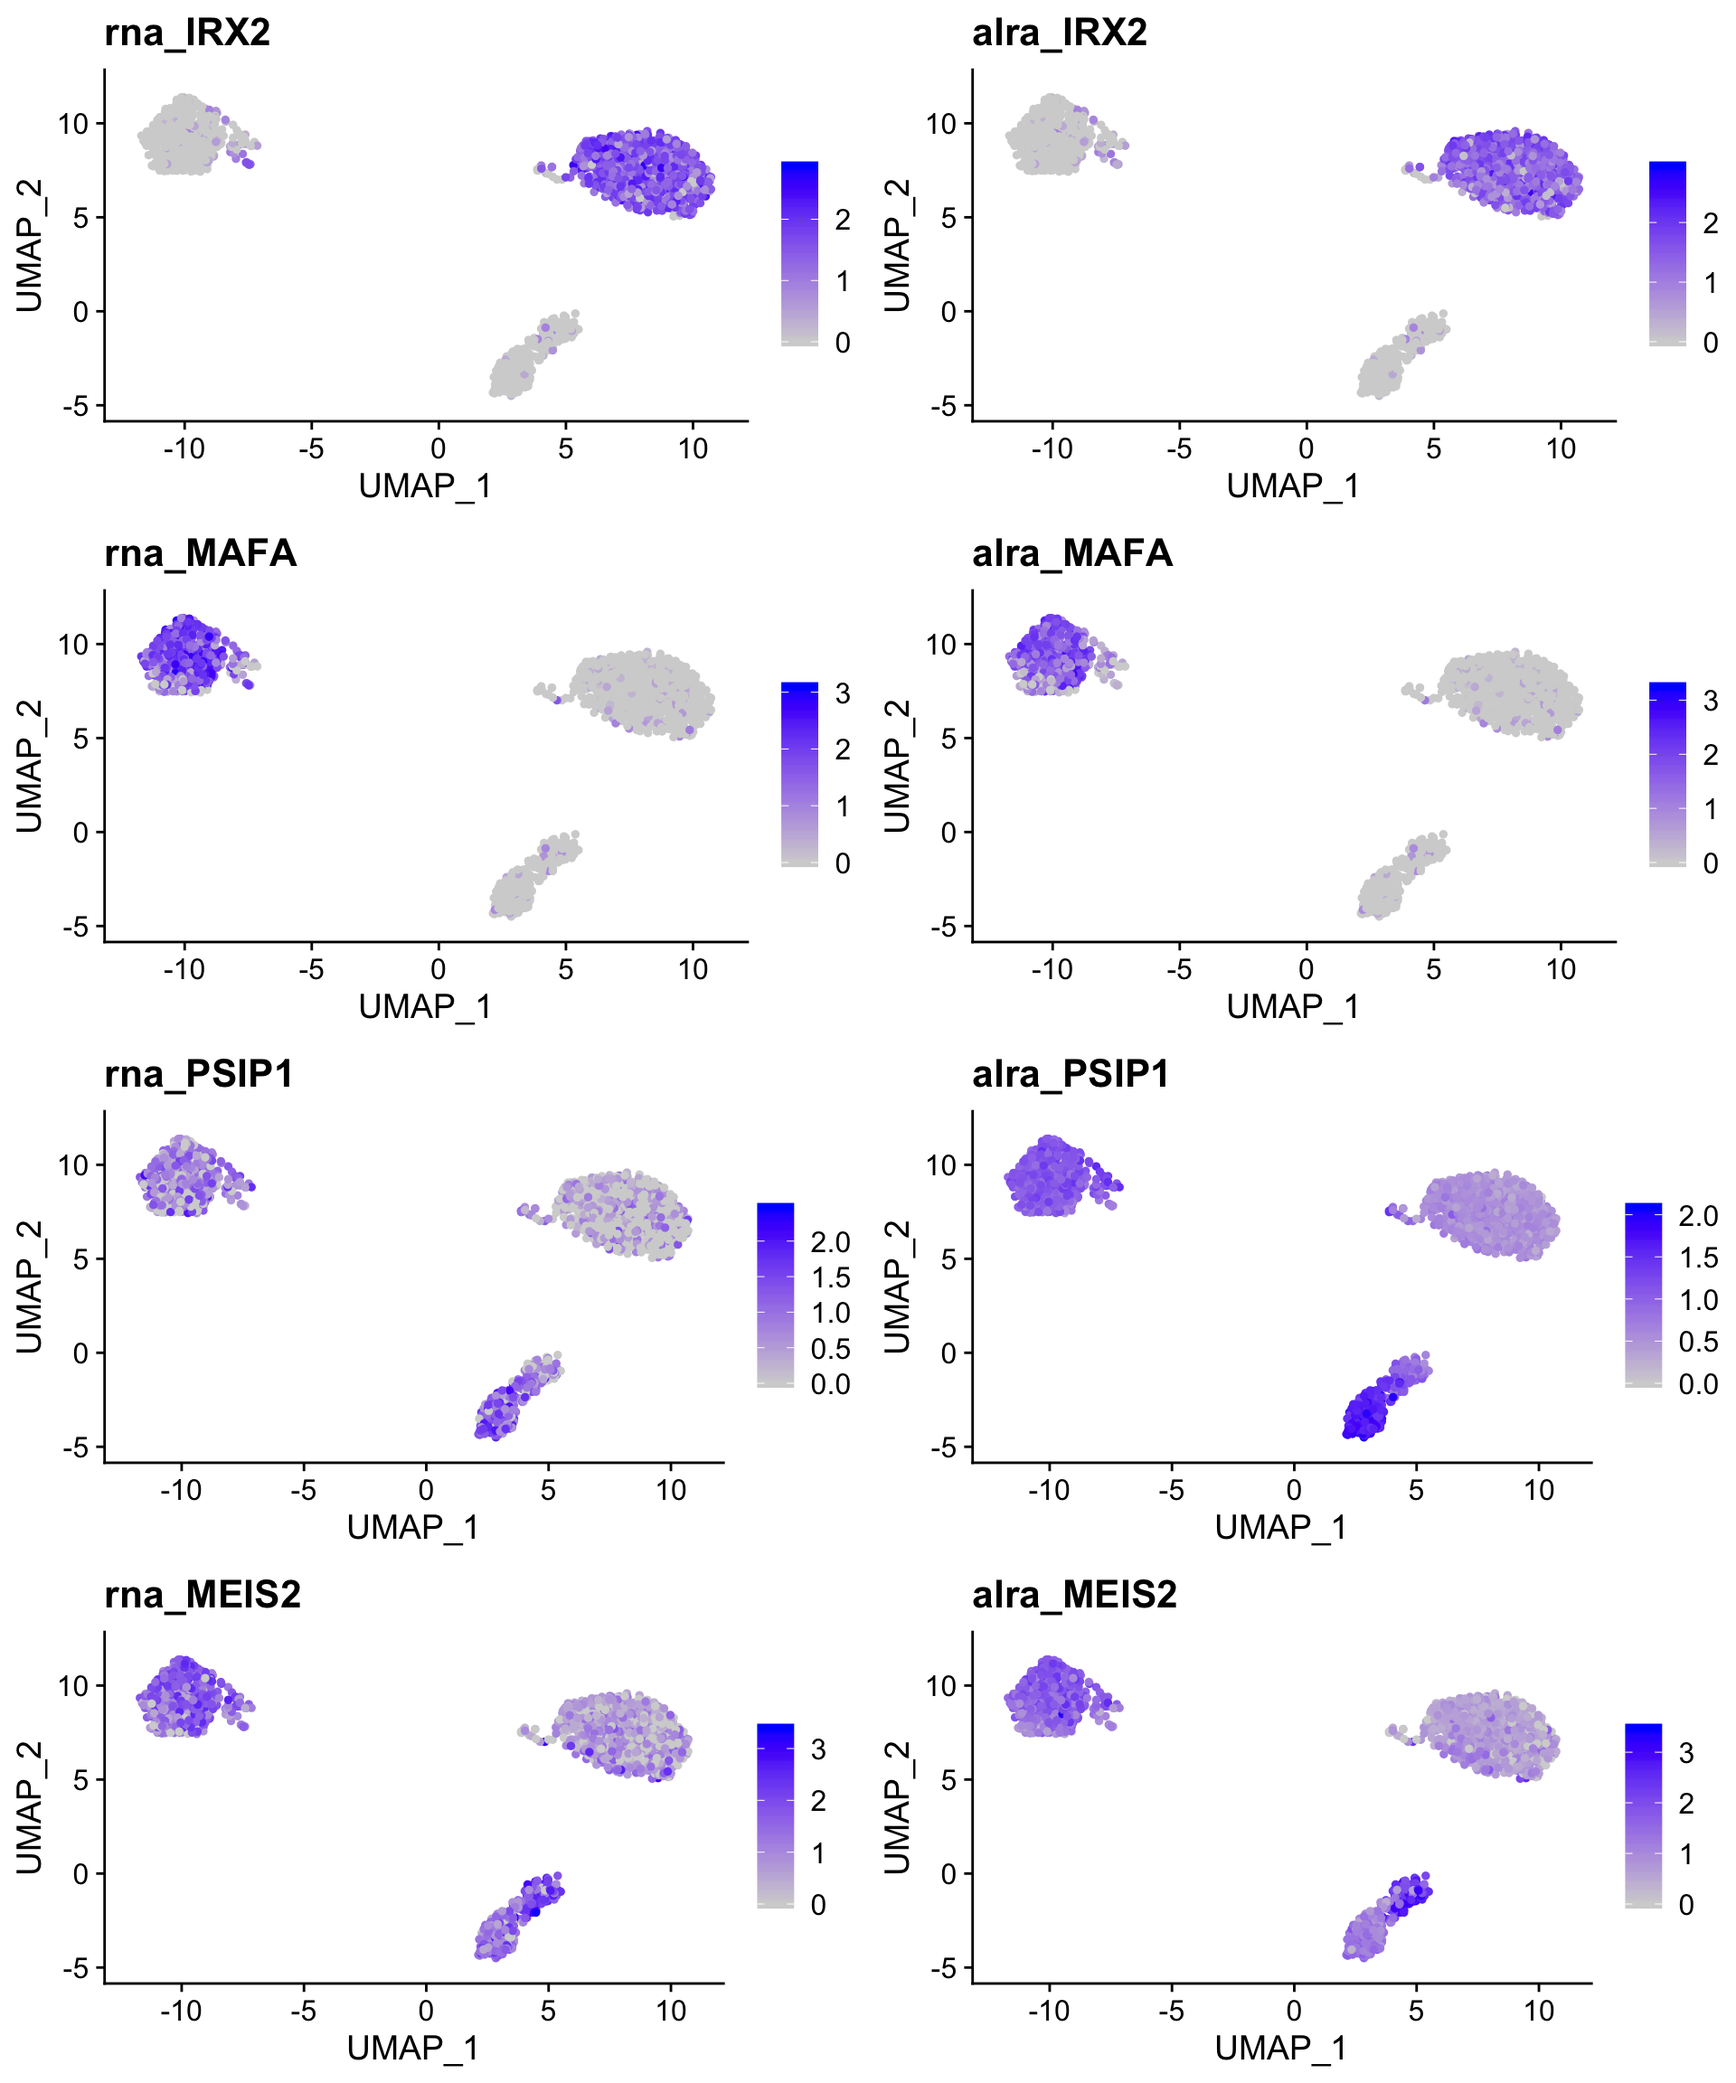
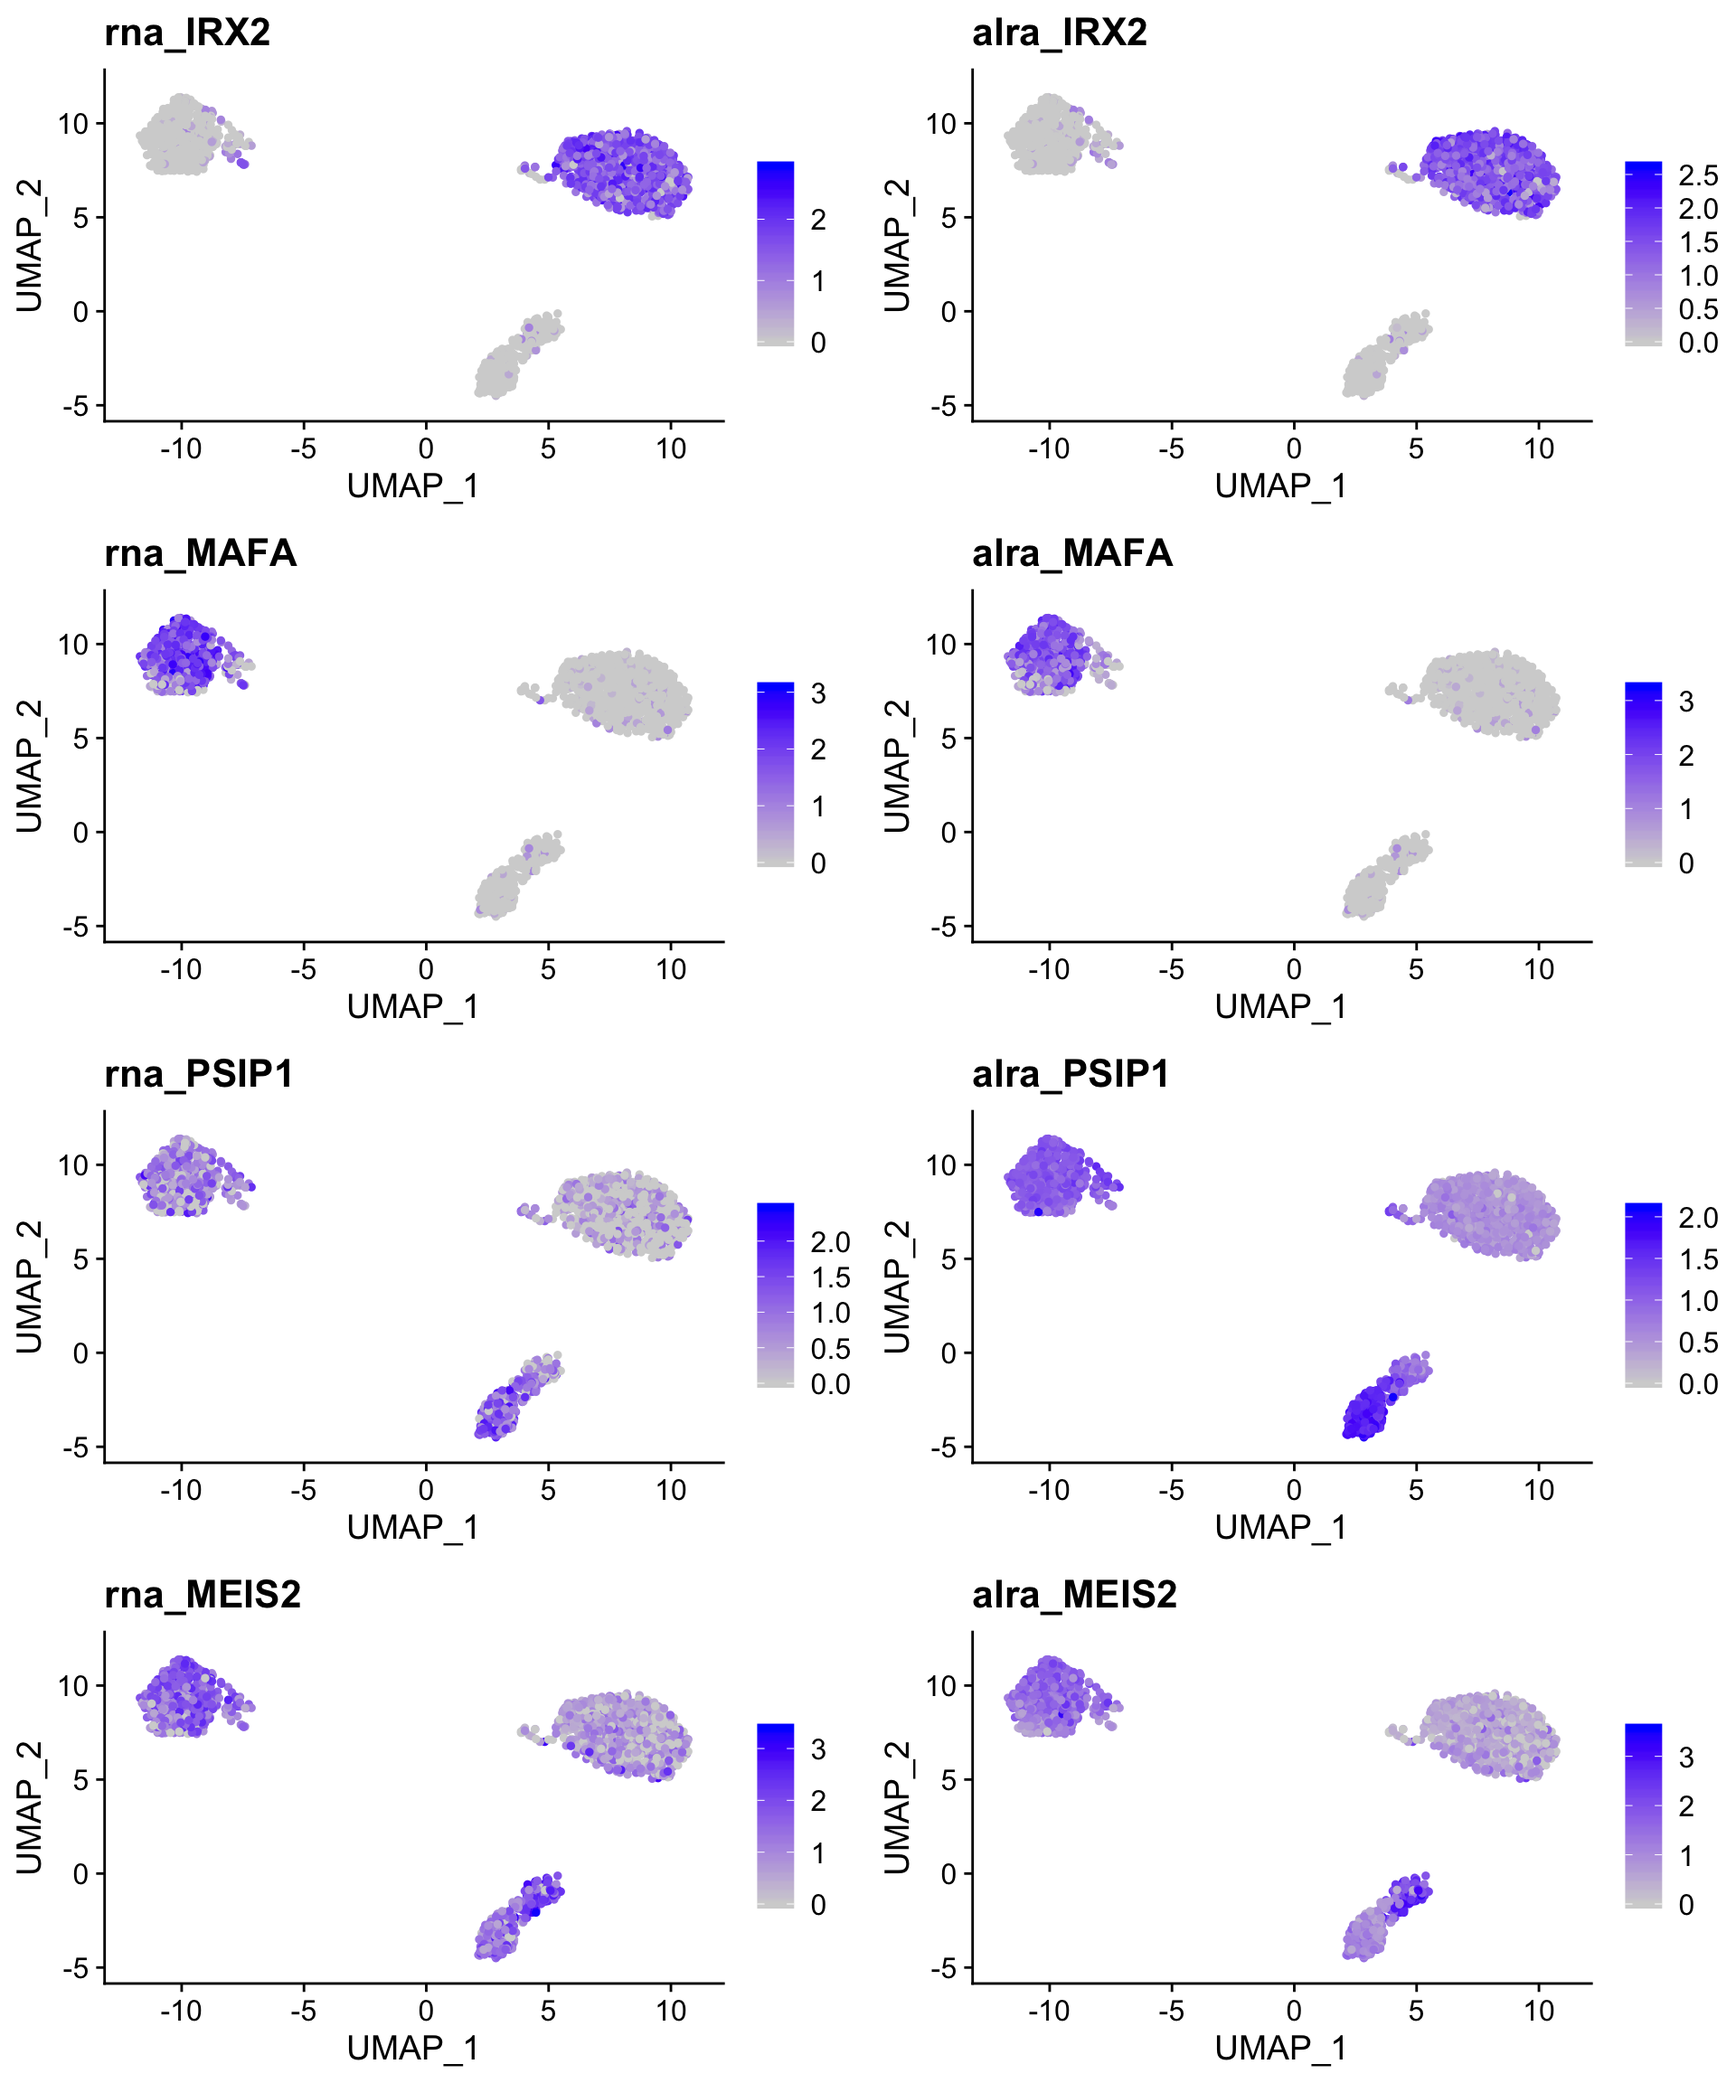
Final final module 8

diff --git a/docs/8_imputation.html b/docs/8_imputation.html
@@ -1475,6 +1475,7 @@ weak_scr_plot &lt;- FeaturePlot(so,
 plot_grid(robust_scr_plot,
           weak_scr_plot,
           nrow = 2)</code></pre>
+<p><img src="8_imputation_files/figure-html5/screcover_plots-1.png" width="960" style="display: block; margin: auto;" /></p>
 </div>
 <p>This difference highlights the strengths and weaknesses of both approaches - ALRA aggressively imputes expression in closely related cells but leaves most cells untouched, while scRecover imputes expression more conservatively in cells modeled to have experienced dropout of a given gene.</p>
 <div class="layout-chunk" data-layout="l-body">
@@ -1485,6 +1486,7 @@ FeaturePlot(so,
               &quot;alra_MEIS2&quot;,
               &quot;scr_MEIS2&quot;),
             combine = TRUE)</code></pre>
+<p><img src="8_imputation_files/figure-html5/impute_plots-1.png" width="960" style="display: block; margin: auto;" /></p>
 </div>
 <h2 id="imputing-dropouts-via-ensemble-learning-enimpute">Imputing dropouts via ensemble learning: enImpute</h2>
 <p><a href="https://github.com/Zhangxf-ccnu/EnImpute" class="uri">https://github.com/Zhangxf-ccnu/EnImpute</a></p>
